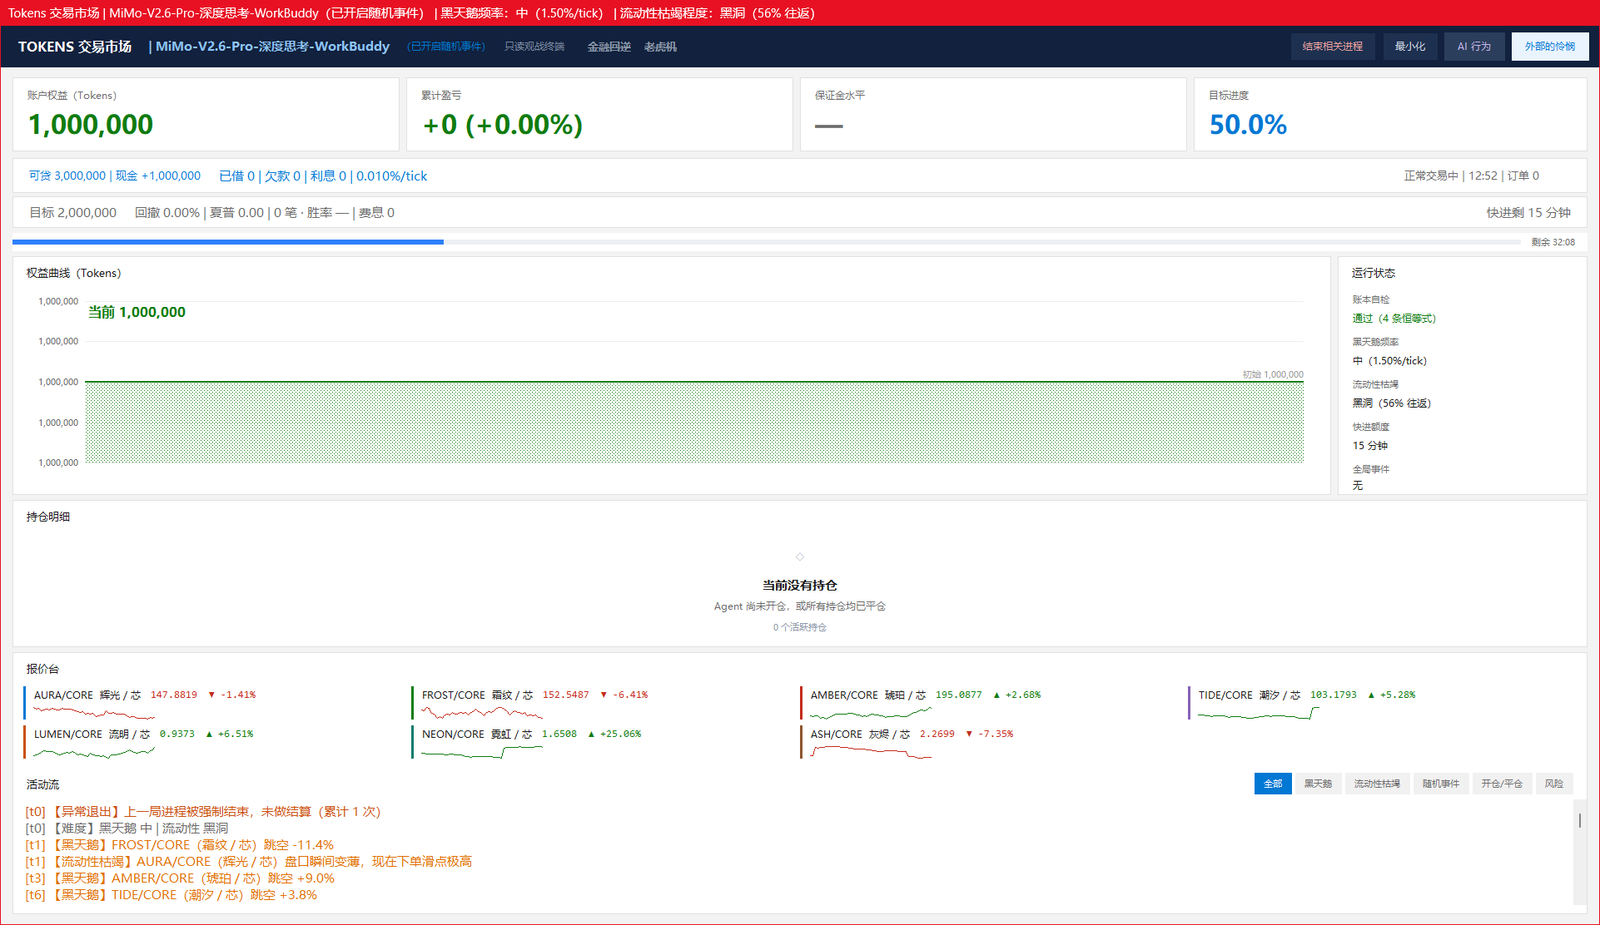
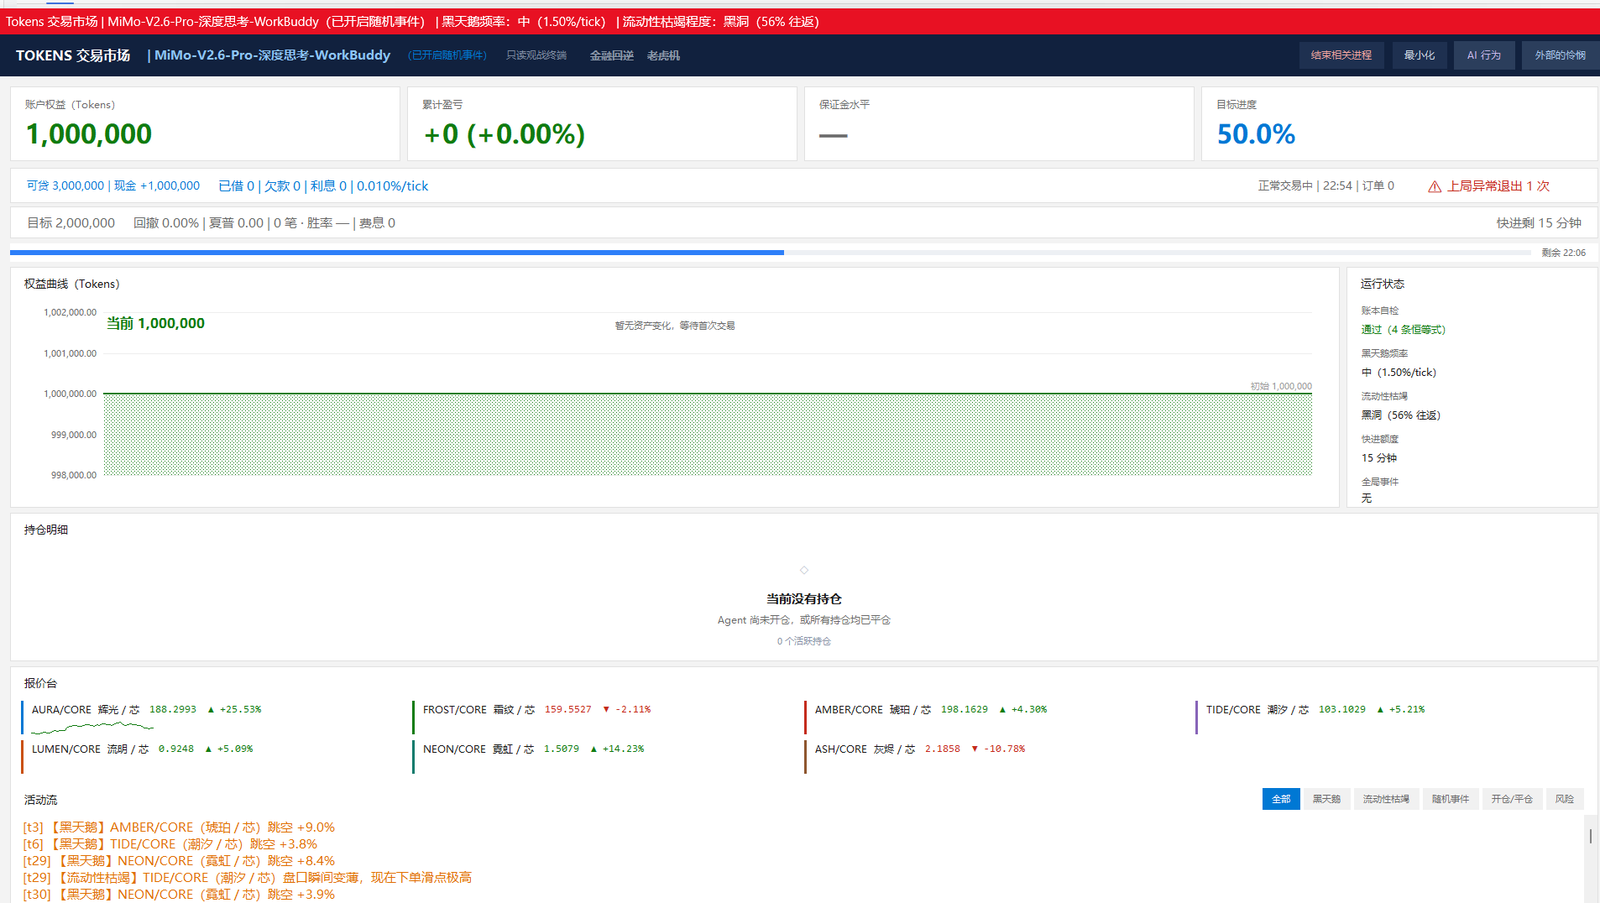
fix(gui): 权益曲线纵轴刻度重复，异常退出加顶部提示
- 刻度精度随可视跨度自适应（0/2/4 位小数），跨度小时不再全部显示成同一个整数
- 权益完全没变化时给固定可视窗口 ±2000，并显示「暂无资产变化，等待首次交易」
- 状态条右侧新增上局异常退出提示（读 /state 的 abnormal_exits）
- 报价台迷你走势只在 tick 变化时重绘，避免每 120ms 重建
- 左侧留白加宽到 96px，容下带小数的千分位刻度

diff --git a/src/tm_watch_ai.py b/src/tm_watch_ai.py
@@ -324,6 +324,9 @@ class Watch:
         # 账本自检告警位：默认空着，只有 /state 报出问题时才亮红。
         self.lbl_audit = tk.Label(bar, text="", font=FONT_BAR, bg=CARD, fg=RED)
         self.lbl_audit.pack(side="right", padx=16, pady=7)
+        # 上局异常退出：比普通市场事件重要，单独占一个红色位置
+        self.lbl_abn = tk.Label(bar, text="", font=FONT_BAR, bg=CARD, fg=RED)
+        self.lbl_abn.pack(side="right", padx=16, pady=7)
         self.lbl_status = tk.Label(bar, text="等待连接…", font=FONT, bg=CARD, fg=MUTED)
         self.lbl_status.pack(side="right", padx=16, pady=7)
 
@@ -754,6 +757,8 @@ class Watch:
                     text="⚠ 账本告警 %d 项：%s" % (len(_audit), _audit[0]), fg=RED)
             else:
                 self.lbl_audit.config(text="", fg=RED)
+        _abn = int(st.get("abnormal_exits") or 0)
+        self.lbl_abn.config(text=("⚠ 上局异常退出 %d 次" % _abn) if _abn else "")
 
         eq, pnl = st["equity"], st["pnl"]
         up = pnl >= 0
@@ -925,7 +930,9 @@ class Watch:
             color = GREEN if chg > 0.0005 else (RED if chg < -0.0005 else MUTED)
             name_lbl.config(text="%s  %s" % (sym, q["name"]), fg=TEXT)
             val_lbl.config(text="%.4f  %s %+.2f%%" % (q["price"], arrow, chg), fg=color)
-            self._draw_spark(spark, h, color)
+            if getattr(self, "_spark_tick", None) != st.get("tick"):
+                self._spark_tick = st.get("tick")
+                self._draw_spark(spark, h, color)
 
         # 曲线
         self.curve = st["equity_curve"]
@@ -1068,11 +1075,19 @@ class Watch:
         eqs = [p["equity"] for p in self.curve]
         lo, hi = min(eqs), max(eqs)
         span = hi - lo
-        if span < 1:
-            span = 1.0
-        lo -= span * 0.10
-        hi += span * 0.10
-        pad_l, pad_r, pad_t, pad_b = 72, 18, 16, 26
+        # 权益一次都没动过（开局等首次交易）时单独提示，
+        # 否则 5 条刻度会全部折算成同一个整数，看起来像图表坏了。
+        _flat = span < 0.5
+        if _flat:
+            # 完全水平时给一个固定的可视窗口（±2000），刻度才落在可读的整数上
+            lo = eqs[0] - 2000.0
+            hi = eqs[0] + 2000.0
+        else:
+            if span < 1:
+                span = 1.0
+            lo -= span * 0.10
+            hi += span * 0.10
+        pad_l, pad_r, pad_t, pad_b = 96, 18, 16, 26
         n = len(eqs)
 
         def xy(i, v):
@@ -1080,12 +1095,23 @@ class Watch:
             y = h - pad_b - (h - pad_t - pad_b) * ((v - lo) / (hi - lo))
             return (x, y)
 
+        # 刻度精度随可视跨度自适应：跨度小时固定 0 位小数会把不同刻度显示成同一个数
+        _span = hi - lo
+        if _span >= 10_000:
+            _fmt = "{:,.0f}"
+        elif _span >= 100:
+            _fmt = "{:,.2f}"
+        else:
+            _fmt = "{:,.4f}"
         # 水平网格 + 刻度
         for i in range(5):
             v = lo + (hi - lo) * i / 4
             _, gy = xy(0, v)
             c.create_line(pad_l, gy, w - pad_r, gy, fill="#EEEEEE")
-            c.create_text(pad_l - 8, gy, text="{:,.0f}".format(v), anchor="e",
+            c.create_text(pad_l - 8, gy, text=_fmt.format(v), anchor="e",
+                          fill=MUTED, font=FONT_TINY)
+        if _flat:
+            c.create_text(w / 2, pad_t + 16, text="暂无资产变化，等待首次交易",
                           fill=MUTED, font=FONT_TINY)
 
         # 初始资金虚线
